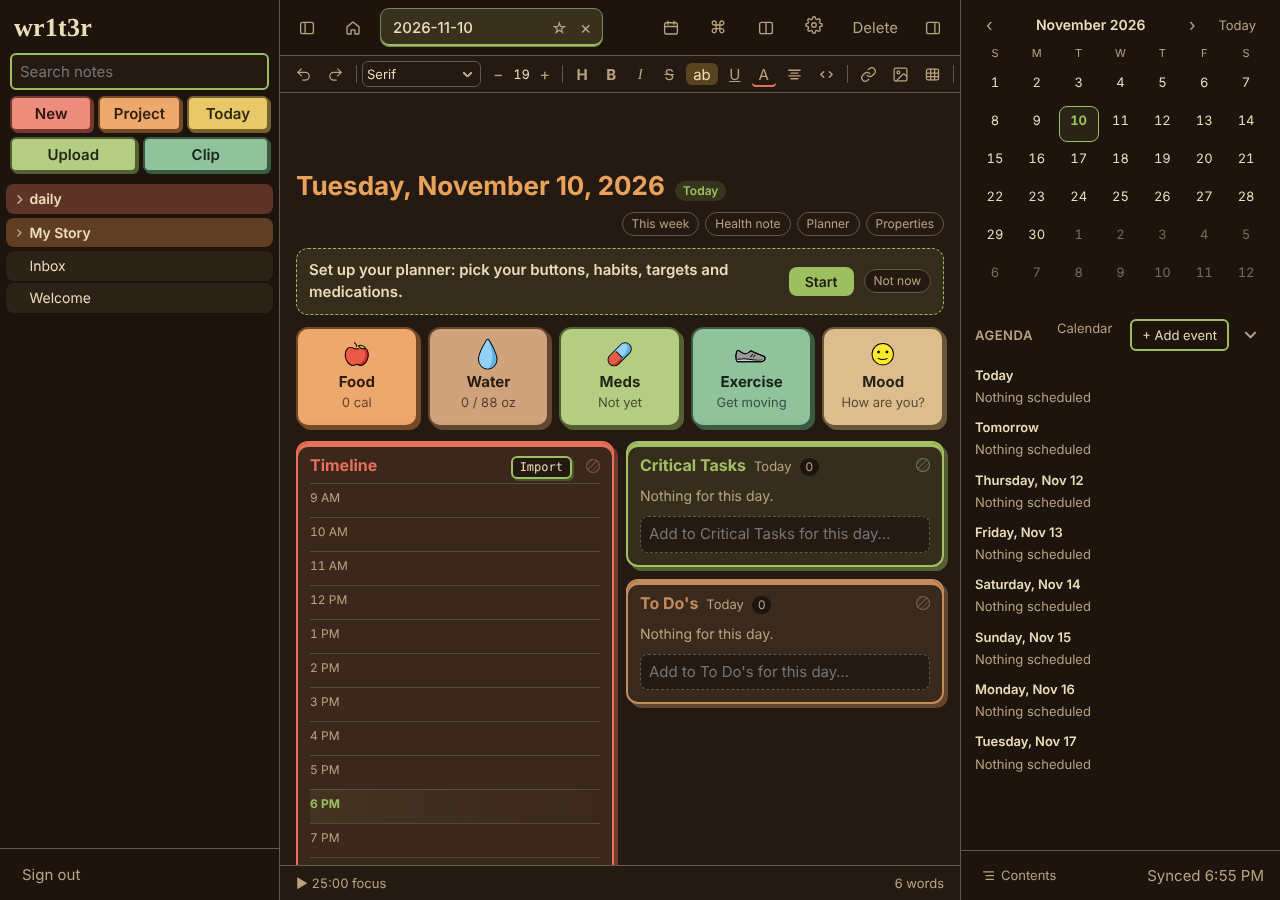
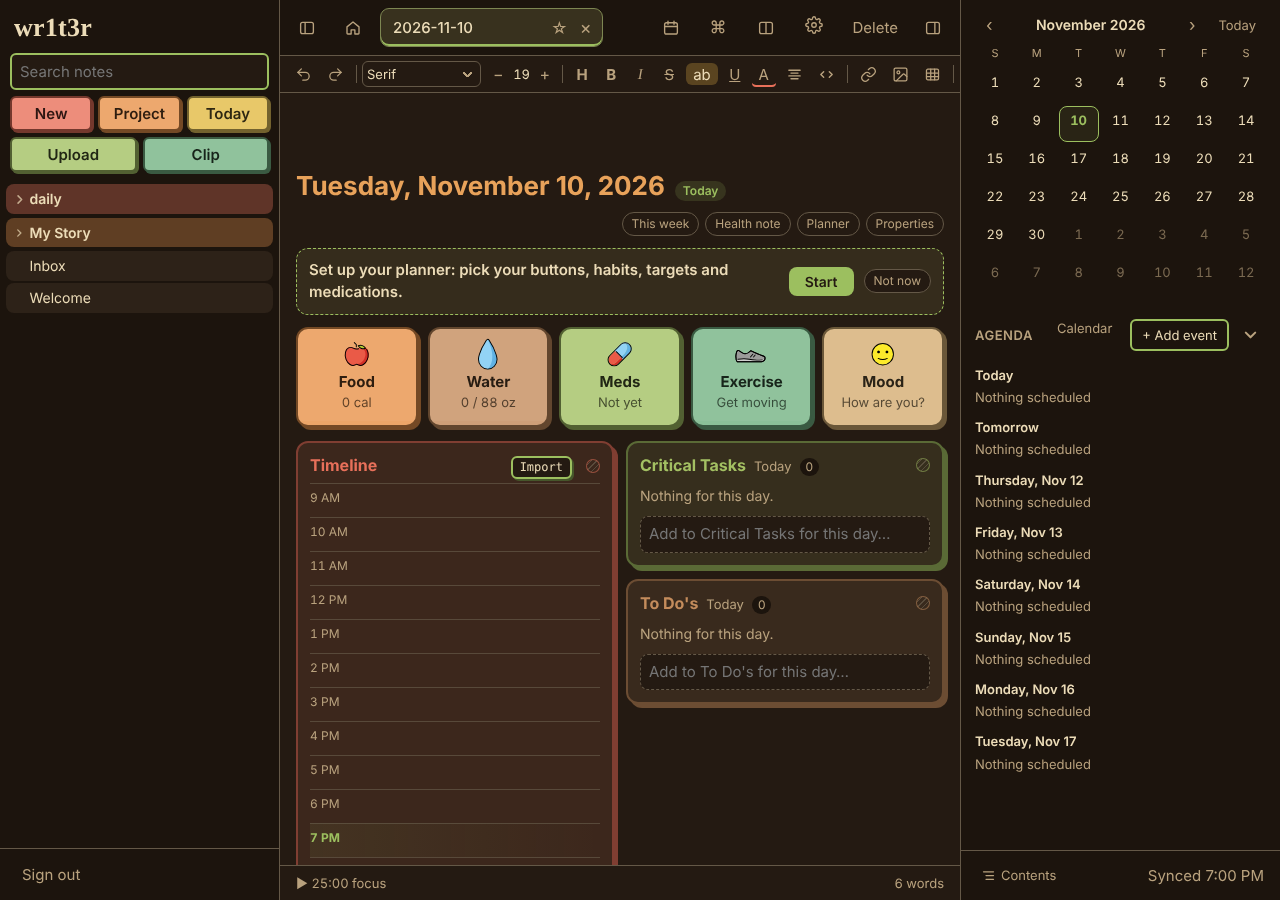
Bold outlines: colored cards drop the top band; outline and shadow in a darker shade of the card's color
Claude-Session: https://claude.ai/code/session_012cksxqsdhhAoXLC1xj7n9M

diff --git a/src/style.css b/src/style.css
@@ -2628,9 +2628,12 @@ body.no-health .planner-buttons { display: none !important; }
 :root[data-outline=bold] .planner-btn.planner-late { border-color: var(--bad, var(--hue-ink)); box-shadow: 3px 3px 0 var(--bad, var(--hue-ink)); }
 :root[data-outline=bold] .planner-btn.planner-nudge { border-style: dashed; }
 :root[data-outline=bold] :is(.md-tl, .md-base.md-board) { border: var(--ink-w) solid var(--ink); border-radius: 12px; box-shadow: var(--drop); }
+/* A colored card: no band on top; its outline and the hard shadow on the
+   right and bottom are a darker shade of its color, in light and dark. */
 :root[data-outline=bold] :is(.md-tl.planner-colored, .md-base.md-board.md-colored) {
-	border-color: light-dark(var(--ink), var(--card-c));
-	box-shadow: inset 0 4px 0 var(--card-c), 4px 4px 0 light-dark(var(--ink-drop), color-mix(in srgb, var(--card-c) 50%, #000));
+	--card-ink: light-dark(color-mix(in srgb, var(--card-c) 65%, #000), color-mix(in srgb, var(--card-c) 55%, #000));
+	border-color: var(--card-ink);
+	box-shadow: 4px 4px 0 var(--card-ink);
 }
 :root[data-outline=bold] .md-tl-btn { border: var(--ink-w) solid var(--ink); color: var(--fg); box-shadow: var(--drop-s); }
 :root[data-outline=bold] .md-tl-btn:active { transform: translate(2px, 2px); box-shadow: none; }
